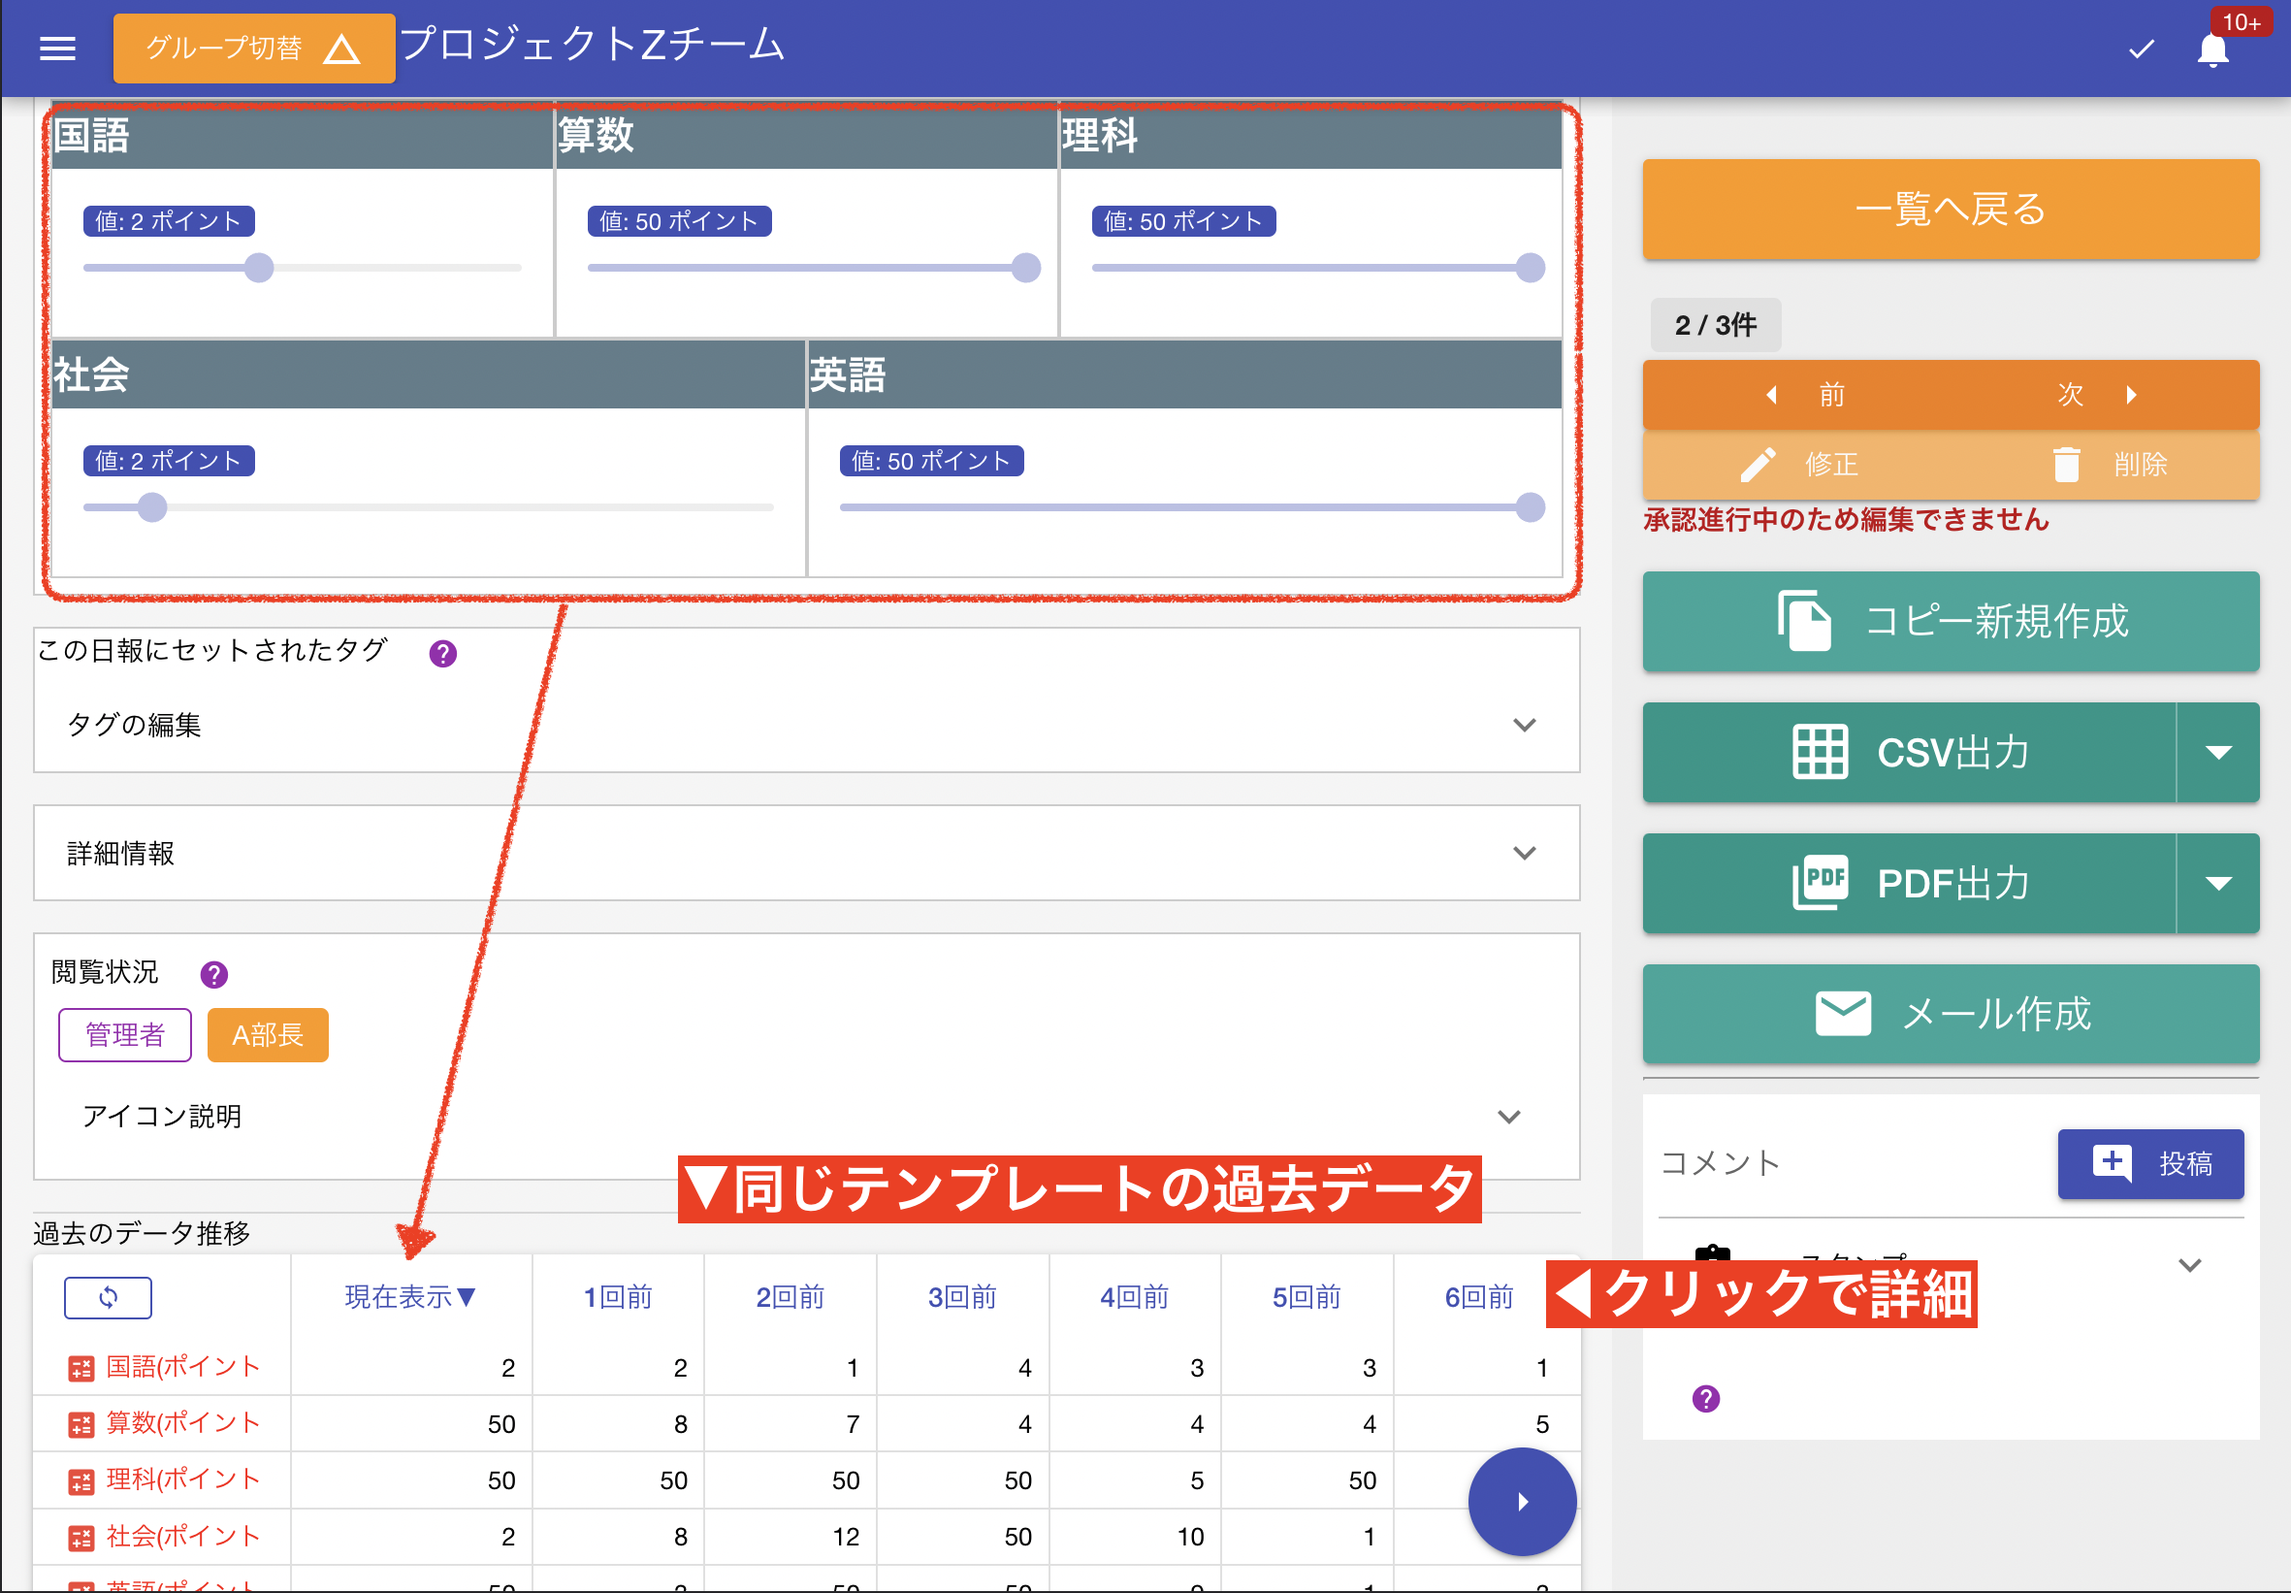
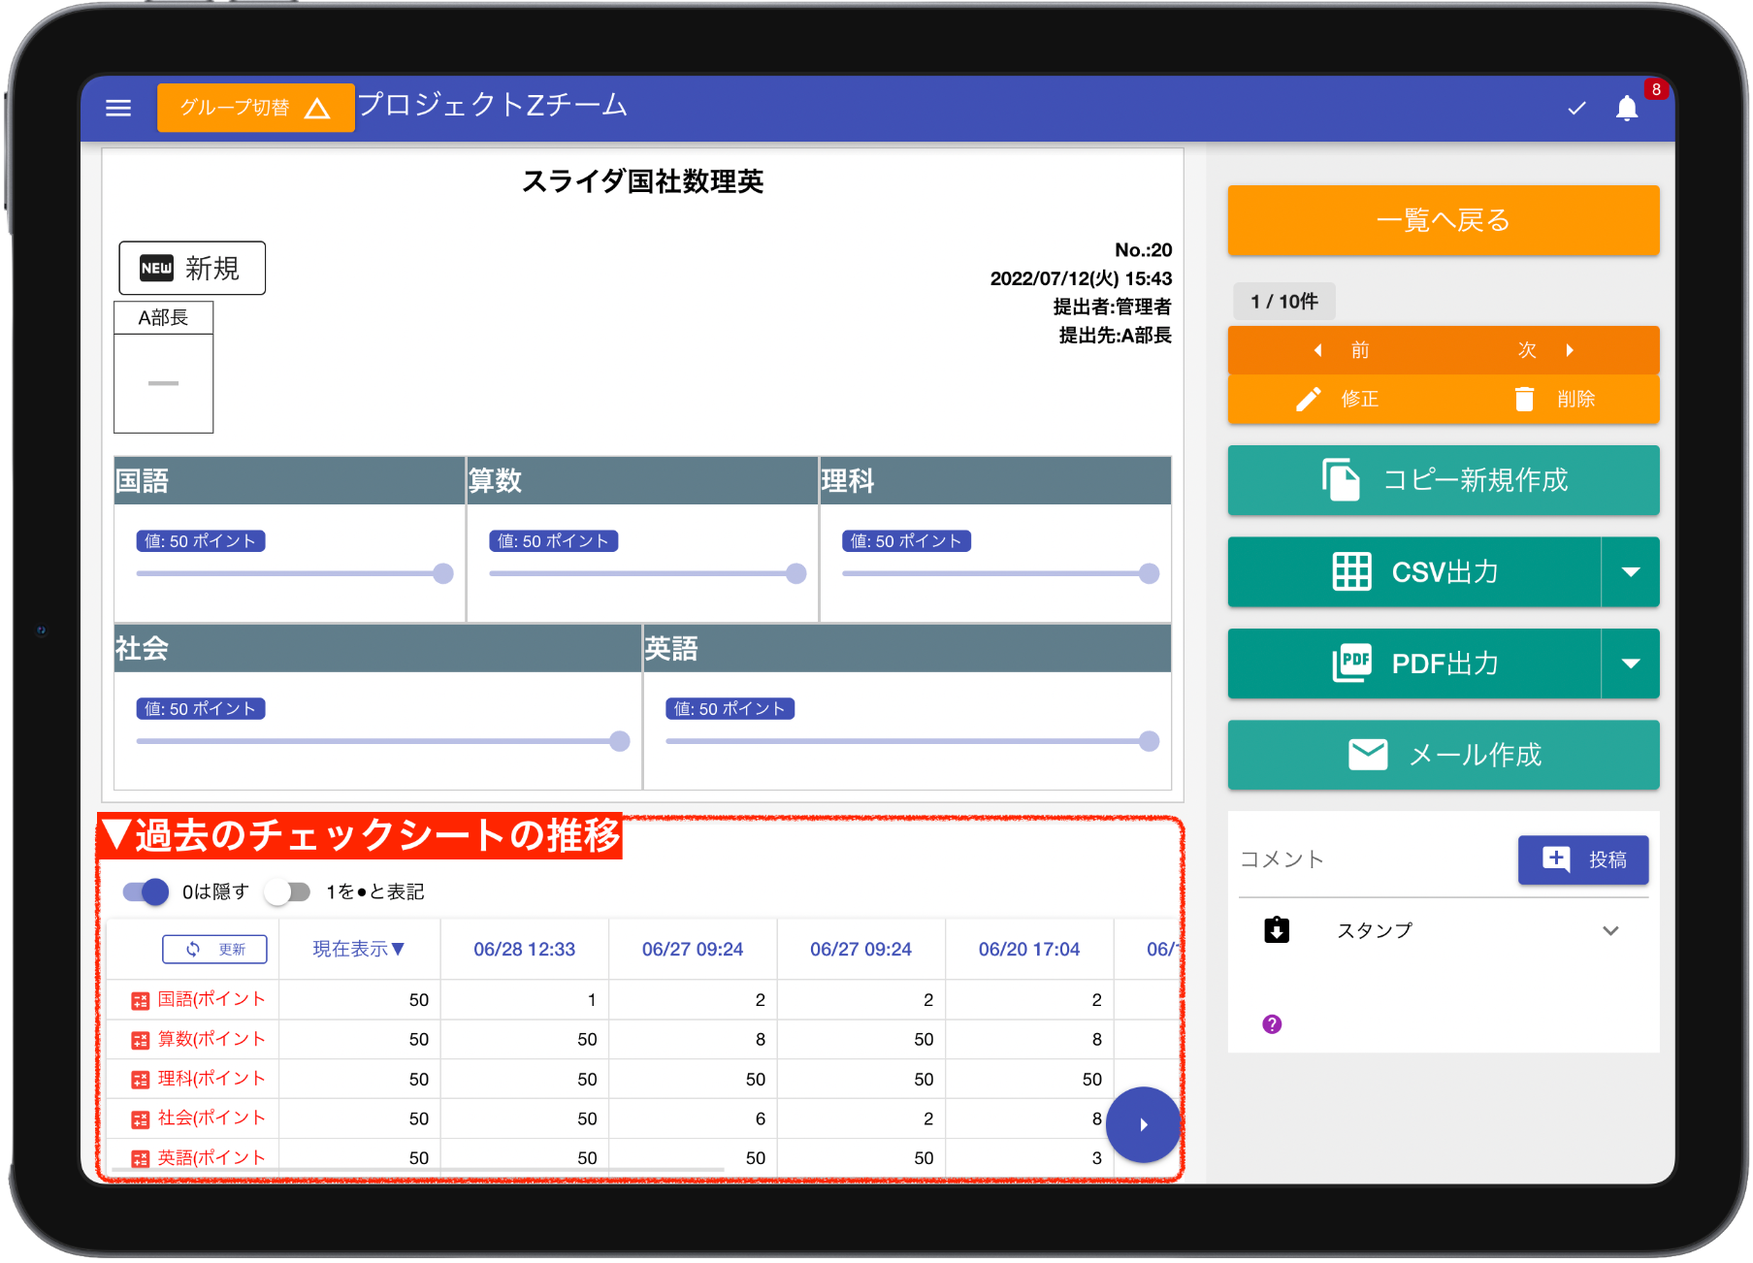
い

diff --git a/content/report/read/analytics/index.md b/content/report/read/analytics/index.md
@@ -1,19 +1,19 @@
 +++
-title = "日報のデータ推移"
+title = "チェックシートのデータ推移"
 description = "今回の日報と過去の日報のデータ推移を確認できます。最大で過去10回分までのデータが表示されます"
 tags = ["日報を読む", "集計機能"]
 weight = 11
 +++
 
-日報詳細画面の下部エリアには日報の**過去データ推移表**が表示されます。  
-過去データ推移とは前回、前々回、と過去の同じ日報のデータを比較できる機能です。
+日報・チェックシートの詳細表示画面下部エリアには**過去データ推移表**が表示されます。
+過去データ推移表では同じテンプレートで作成された日報・チェックシートのデータ比較ができる機能です。[日報・チェックシート集計機能](/report/totalling/transition/)の推移集計と同じものですがわざわざ集計画面を開かなくても、チェックシートを読んでいるだけで自動で表を生成しますので手軽に利用できる利点があります。
 
-{{<imgproc icatch.png Resize "1200x" "過去の日報のデータ推移が確認できます" />}}
+{{<imgproc icatch.png Resize "1200x" "同じテンプレートで作成された過去のチェックシートのデータをひと目で確認できます。最大で直近10件までのデータが表示されます。" />}}
 
-過去データ推移に表示される項目（過去データ推移表で言うところの行）は日報テンプレートのうち[集計が可能な入力フォーム](/report/totalling/form/)に限られます。上のサンプル画像では「[スライダ入力フォーム](/org/groupsetting/template/step/)」を使用した日報ですが、スライダ入力フォームは集計可能な入力フォームのため、過去データ推移として表示されます。
+過去データ推移に表示される項目（過去データ推移表で言うところの行）は日報テンプレートのうち[集計が可能な入力フォーム](/report/totalling/form/)に限られます。
 
 {{<alice pos="left" icon="ok">}}
-わざわざCSVなどに出力しなくてもその場で前回、前々回と比較ができるので便利ですね
+上のサンプル画像では「[スライダ入力フォーム](/org/groupsetting/template/step/)」だけのチェックシートだから全部推移表に表示されるわけです
 {{</alice>}}
 
 また、過去データ推移に表示される日報（過去データ推移表で言うところの列）は次の条件にマッチした日報が表示されます。

diff --git a/content/report/read/state/index.md b/content/report/read/state/index.md
@@ -1,6 +1,6 @@
 +++
 title = "承認・棄却・既読"
-# description = "チャプター"
+description = "日報やチェックシートを読み、承認や棄却する手順についてのガイドです。承認者が複数いる場合はリレー方式で承認のバトンが連鎖していき、全員が承認した時点で初めて承認状態になります。"
 tags = ["日報を読む"]
 weight = 10
 [sitemap]
